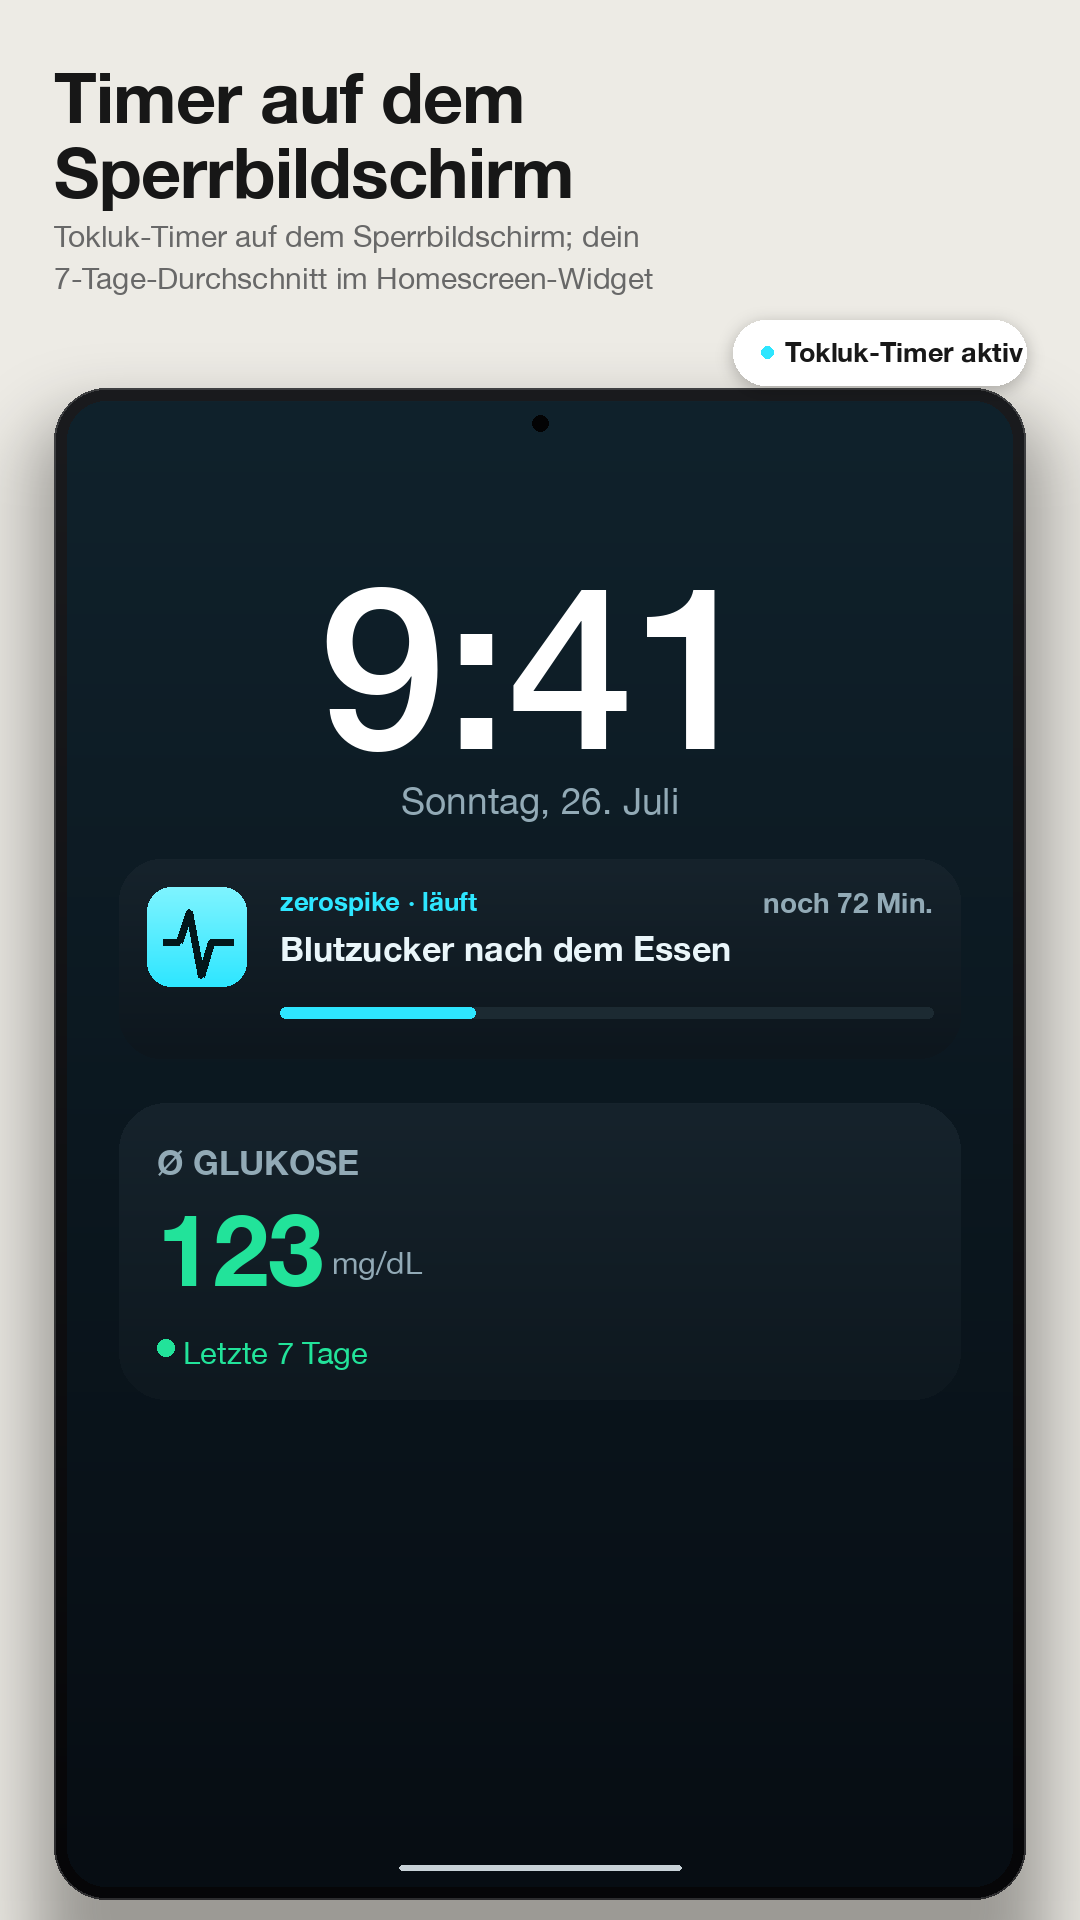
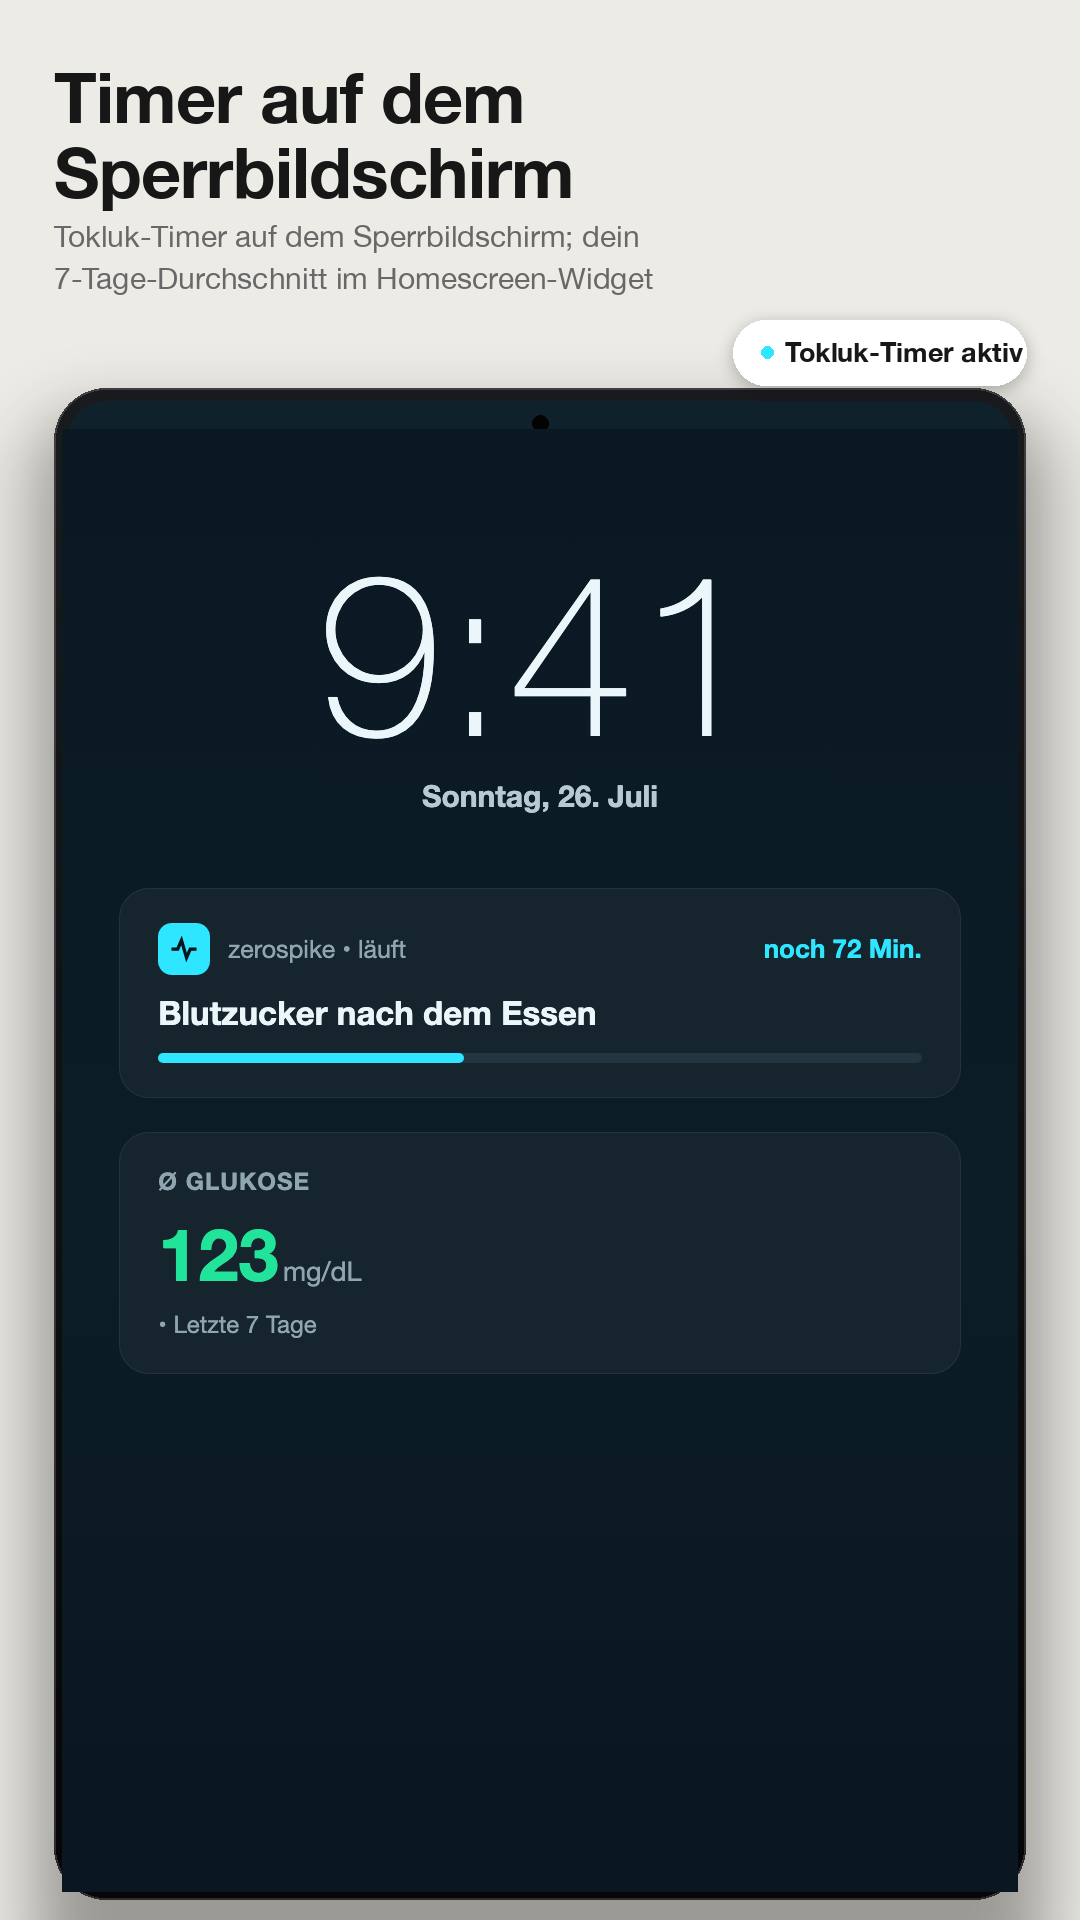
sds

diff --git a/docs/build-prompt-r11-tablet.md b/docs/build-prompt-r11-tablet.md
@@ -1,0 +1,35 @@
+# R11 BUILD PROMPT: Tablet Duzeni (uygulama kodu) + Tablet Magaza Gorselleri BASTAN
+
+KENDI KENDINE YETEN dosya. Baglam: 1.5.0 iOS yayinda; Android TELEFON magaza seti hazir (zerospike-store-r93/android-phone, 7 kare x 5 dil) ve Play'e telefon-only yuklenecek. TABLET setleri bilerek yuklenmedi cunku (a) uygulamanin tablet duzeni responsive degil (telefon duzeni 1600px'e geriliyor: uctan uca satirlar, dev arama cubugu), (b) onceki tablet kompozitlerinin cihaz cercevesi kalitesiz (bezel yok, icerik kenara yapisik). Bu tur ikisini de cozer. iPad de ayni responsive sorununu tasiyor; bu turun kod isi bir sonraki iOS surumunu de iyilestirir.
+
+## 0. KURALLAR
+- Notr regulasyon dili; yeni stringler 5 dil (tr/en/de/es/fr); em-dash yok; app.json surumune dokunma (bir sonraki surumde bump edilir).
+- Gateler: `npx tsc --noEmit` · `npm run i18n-check` · `npx tsx scripts/calc.test.ts` · `npx tsx scripts/migration.test.ts` · `npx tsx scripts/mealResponse.test.ts`.
+- GORSEL-DONDURULMUS: telefon/iPhone LAYOUTLARI DEGISMEZ (magaza gorselleri yayinda). Tablet duzeni ek breakpoint'le gelir; dar ekranda render BIREBIR ayni kalmali (kanit: telefon simulatorunde degisiklik oncesi/sonrasi ekran karsilastirmasi).
+
+## FAZ 1: UYGULAMA TABLET DUZENI (kod)
+Hedef: genis ekranda (kisa kenar >= 600dp) telefon-gerdirmesi yerine dengeli duzen.
+- 1.1 Ortak cati: `lib/useLayout.ts` (veya esdegeri): `isWide` (shortestSide >= 600) + `contentMaxWidth` (~640-720dp) sabitleri. Ekran icerik kolonlari genis ekranda ORTALANIR ve maxWidth ile sinirlanir; liste satirlari, arama cubugu, kartlar uctan uca GERILMEZ.
+- 1.2 Uygulanacak ekranlar (oncelik sirasi; hepsi ayni cati ile): dashboard (hero halka + haftalik serit + sayac + gunluk), food (karb hero + ogun listesi + kategori IZGARASI genis ekranda 4-5 kolon), injection (3 segment; harita genis ekranda sabit maksimum genislik, form yanina degil ALTINA - basit tut), insights (kartlar 2 kolonlu grid genis ekranda), meal-response, spike, settings hub + alt sayfalar, onboarding (icerik kolonu maxWidth).
+- 1.3 YAPMA: yeni navigasyon deseni (split-view/master-detail) EKLEME; bu tur yalniz "ortala + sinirla + izgara" turudur. Karmasik iki-panel duzenler kapsam disi.
+- 1.4 Kanit: Pixel_Tablet (veya iPad sim) ekran goruntuleri her ana ekran icin oncesi/sonrasi; telefonda piksel-regresyon yok.
+
+## FAZ 2: TABLET HAM CEKIMLERI (5 dil)
+Mekanik (onceki turlarin kanitli recetesi - AYNEN uygula):
+- Pixel_Tablet emulatoru COLD boot: `emulator -avd Pixel_Tablet -no-snapshot -no-audio -timezone Asia/Tokyo` (quickboot snapshot saati KAYIKTIR; Tokyo = ogleden sonra hikayesi). Boot sonrasi `adb emu rotate` ile PORTRE (tablet dogal yonu landscape'tir), demo mode: `settings put global sysui_demo_allowed 1` + `am broadcast com.android.systemui.demo` (clock 0941, battery 100, wifi 4, notifications gizli).
+- Metro: `EXPO_PUBLIC_SCREENSHOT_MODE=1 npx expo start` + `adb reverse tcp:8081 tcp:8081` (yuklu debug build Metro ister).
+- Dil gecisi: uygulama OTURMUSKEN `zerospike://sc-lang?lang=xx` deep-link + force-stop + 2x relaunch (seed dil-bazli yeniden kurulur). Boot sirasinda gonderilen link KAYBOLUR.
+- NAVIGASYON: (tabs) rotalarina warm deep-link BAYAT EKRAN KOPYASI acar - tab gecisleri GERCEK DOKUNUSLA yapilir (`adb shell input tap`; tab bar y~2450, 4 sekme x~200/625/1000/1400 - dogrulamak icin OCR-kutu araciyla olc). Pushed rotalar (insights?custom=1, /spike) deep-link ile guvenli.
+- Dogrulama her karede OCR ile (dil-safiyet + 9:41 + beklenen anahtar kelime); "bugun" gruplamasi icin seri=12 ve karb=135 kontrolu (seri 12 degilse: cift-seed kalintisi - pm clear yerine DB cerrahisi: run-as ile db cek, fazla gunleri sil, geri it).
+- Kareler: 01 dashboard, 02 injection MAPA segmenti (dokunusla), 04 food, 05 insights?custom=1, 07 /spike. (03 ve 06 kompozitor-cizimi.)
+
+## FAZ 3: TABLET KOMPOZITLERI BASTAN (donor cerrahisi DEGIL; temiz sablon)
+- Sablon standardi = iPhone/iPad onaylı yapi: sicak krem zemin, sol ust 2 satirlik baslik + 2 satir altyazi, cipler yalniz kremde (metin/cihazla kesisme YASAK), GERCEK gorunumlu tablet cercevesi: belirgin esit bezel (icerige gore ~28-36px), yuvarlak koseler, on kamera noktasi, alt kesim uygulama tab bar ustunde, son-oge-tam kurali.
+- Kanvaslar: tablet7 1080x1920, tablet10 1600x2560; ayni ham cekimden iki render (oran korunur, esnetme yok).
+- 03-widget: Android kilit ekrani sahnesi TABLET oranli (buyuk ince saat + LA karti + widget karti; telefon 03'un tablet uyarlamasi). 06-report: A4 oranli es-boyutlu iki sayfa, arka arkaya (rapor sayfalari HER DILDE o dilin uygulamasindan uretilir: Ayarlar > Veri > PDF; pdftoppm ile sayfalara ayir).
+- Basliklar/altyazilar/cipler: mevcut telefon setindekiyle AYNI metinler (r93 telefon karelerinden).
+- Dogrulama HER dosyada: tam olcu, alpha yok, 9:16, tek dil (OCR), cip kesisimi sifir, son-oge-tam, cerceve butunlugu goz kontrolu. Kare basina rapor satiri.
+
+## FAZ 4: TESLIM
+- zerospike-store-r93/android-tablet7|10/<dil>/ 7 kare x 5 dil = 70 dosya + dil basina _PREVIEW kontaktlari.
+- Teslim raporu: Faz 1 oncesi/sonrasi ekranlar, telefon regresyonsuzluk kaniti, gate ciktilari, dogrulama tablosu. iPad iyilesmesi nota: bir sonraki iOS surumunde iPad gorselleri de bu duzenle tazelenebilir (ayri karar).

diff --git a/CLAUDE.md b/CLAUDE.md
@@ -1,0 +1,14 @@
+# CLAUDE.md: zerospike
+
+zerospike: diyabet gunlugu uygulamasi (Expo + RN + TS, iOS + Android). Saglik verisi hassastir; dil ve kapsam regulasyona gore sinirlidir.
+
+## Kapilar
+
+- npm run typecheck (i18n-check dahil)
+- npm run i18n:check
+
+## Sert kurallar (ihlali store reddi)
+
+- Regulasyon dili: "uyarir", "hipoglisemi alarmi", "tani", "tedavi", "onerilen doz" ve turevleri YASAK; izinli cerceve gunluk, takip, hatirlaticidir. Uygulama tibbi cihaz gibi konusamaz.
+- Android'e Health Connect GERI EKLENMEZ (Play kurulus hesabi sarti; sirket hesabi yok).
+- Her yeni string 5 dilde (en/tr/de/fr/es), Turkce diyakritikleri dogru.
